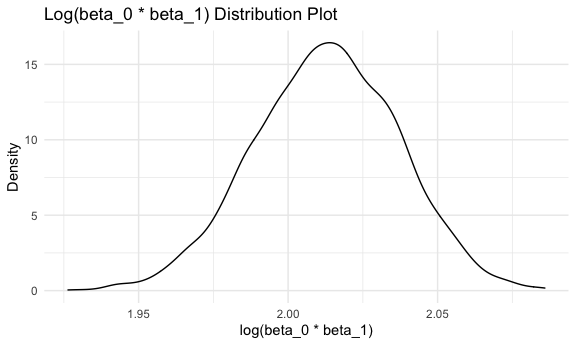
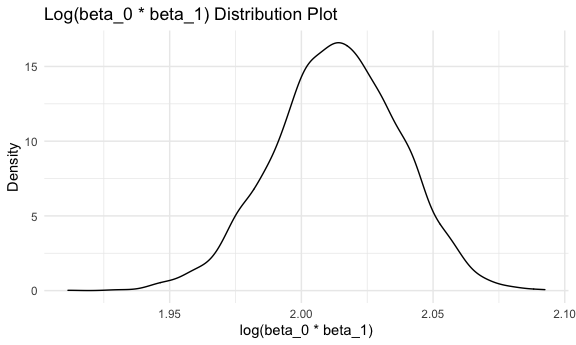
Modify comments

diff --git a/p8105_hw6_wq2160.md b/p8105_hw6_wq2160.md
@@ -65,7 +65,14 @@ My interested predictors includes:
 
 4.  gestational age in weeks (`gaweeks`).
 
-Then we fit the linear model based on above parameters.
+Then we fit the linear model based on above parameters. This is a
+hypothesis based multiple linear regression model, and I choose those 4
+predictors (which could be seen as my hypothesis on the contributors on
+birth weight) based on my epidemiological and biological knowledge, such
+as the gestational status of mother (BMI, smoken, age) will definitely
+influence the growth wellness of baby based on the influences of
+chemical and biological signals, and premature infant tends to have a
+lower weight than normal infant.
 
 ``` r
 bw_fit = lm(bwt ~ ppbmi + smoken + momage + gaweeks, data = birthweight_df)
@@ -220,16 +227,6 @@ weather_df =
   select(name, id, everything())
 ```
 
-    ## Registered S3 method overwritten by 'hoardr':
-    ##   method           from
-    ##   print.cache_info httr
-
-    ## using cached file: ~/Library/Caches/R/noaa_ghcnd/USW00094728.dly
-
-    ## date created (size, mb): 2021-10-05 10:31:01 (7.602)
-
-    ## file min/max dates: 1869-01-01 / 2021-10-31
-
 **5000 Bootstrap**
 
 ``` r
@@ -261,16 +258,16 @@ boot_df
     ## # A tibble: 5,000 × 3
     ##    strap_number r_squared log_beta
     ##    <chr>            <dbl>    <dbl>
-    ##  1 0001             0.906     2.02
-    ##  2 0002             0.919     2.02
-    ##  3 0003             0.931     1.99
-    ##  4 0004             0.902     2.04
-    ##  5 0005             0.912     2.04
-    ##  6 0006             0.910     2.01
-    ##  7 0007             0.923     1.97
-    ##  8 0008             0.931     1.95
-    ##  9 0009             0.913     1.98
-    ## 10 0010             0.915     1.98
+    ##  1 0001             0.921     2.01
+    ##  2 0002             0.916     1.97
+    ##  3 0003             0.906     2.05
+    ##  4 0004             0.923     2.00
+    ##  5 0005             0.927     2.00
+    ##  6 0006             0.907     2.00
+    ##  7 0007             0.915     2.00
+    ##  8 0008             0.932     2.03
+    ##  9 0009             0.908     2.02
+    ## 10 0010             0.911     1.99
     ## # … with 4,990 more rows
 
 **Plot Estimated R Squared**
@@ -289,7 +286,7 @@ boot_df %>%
 <img src="p8105_hw6_wq2160_files/figure-gfm/unnamed-chunk-11-1.png" width="90%" />
 
 Comment: The distribution of `R.Squared` represents a little left-skewed
-(but almost normal) bell-shape curve, and the mean is around 0.912 (r
+(but almost normal) bell-shape curve, and the mean is around 0.911 (r
 squared is between 0 and 1, and larger the value, better the fit). We
 can conclude that most of the r squared are quite close to 1, thus the
 linear model of `tmin` and `tmax` fits really well.
@@ -326,7 +323,7 @@ ci_r
 ```
 
     ##      2.5%     97.5% 
-    ## 0.8940905 0.9279998
+    ## 0.8944259 0.9270078
 
 ``` r
 ## log(beta_0 * beta_1)
@@ -339,10 +336,10 @@ ci_log
 ```
 
     ##     2.5%    97.5% 
-    ## 1.964905 2.058279
+    ## 1.965737 2.058421
 
-Thus, the 95% CI of `R.Squared` is (0.894, 0.928), the 95% CI of
-`log(beta_0 * beta_1)` is (1.965, 2.058). At the significance level of
+Thus, the 95% CI of `R.Squared` is (0.894, 0.927), the 95% CI of
+`log(beta_0 * beta_1)` is (1.966, 2.058). At the significance level of
 0.05, we are 95% confident that the true R.Squared will lies between
 0.895 and 0.928, and the true log(beta\_0 \* beta\_1) will lies between
 1.965 and 2.059.
